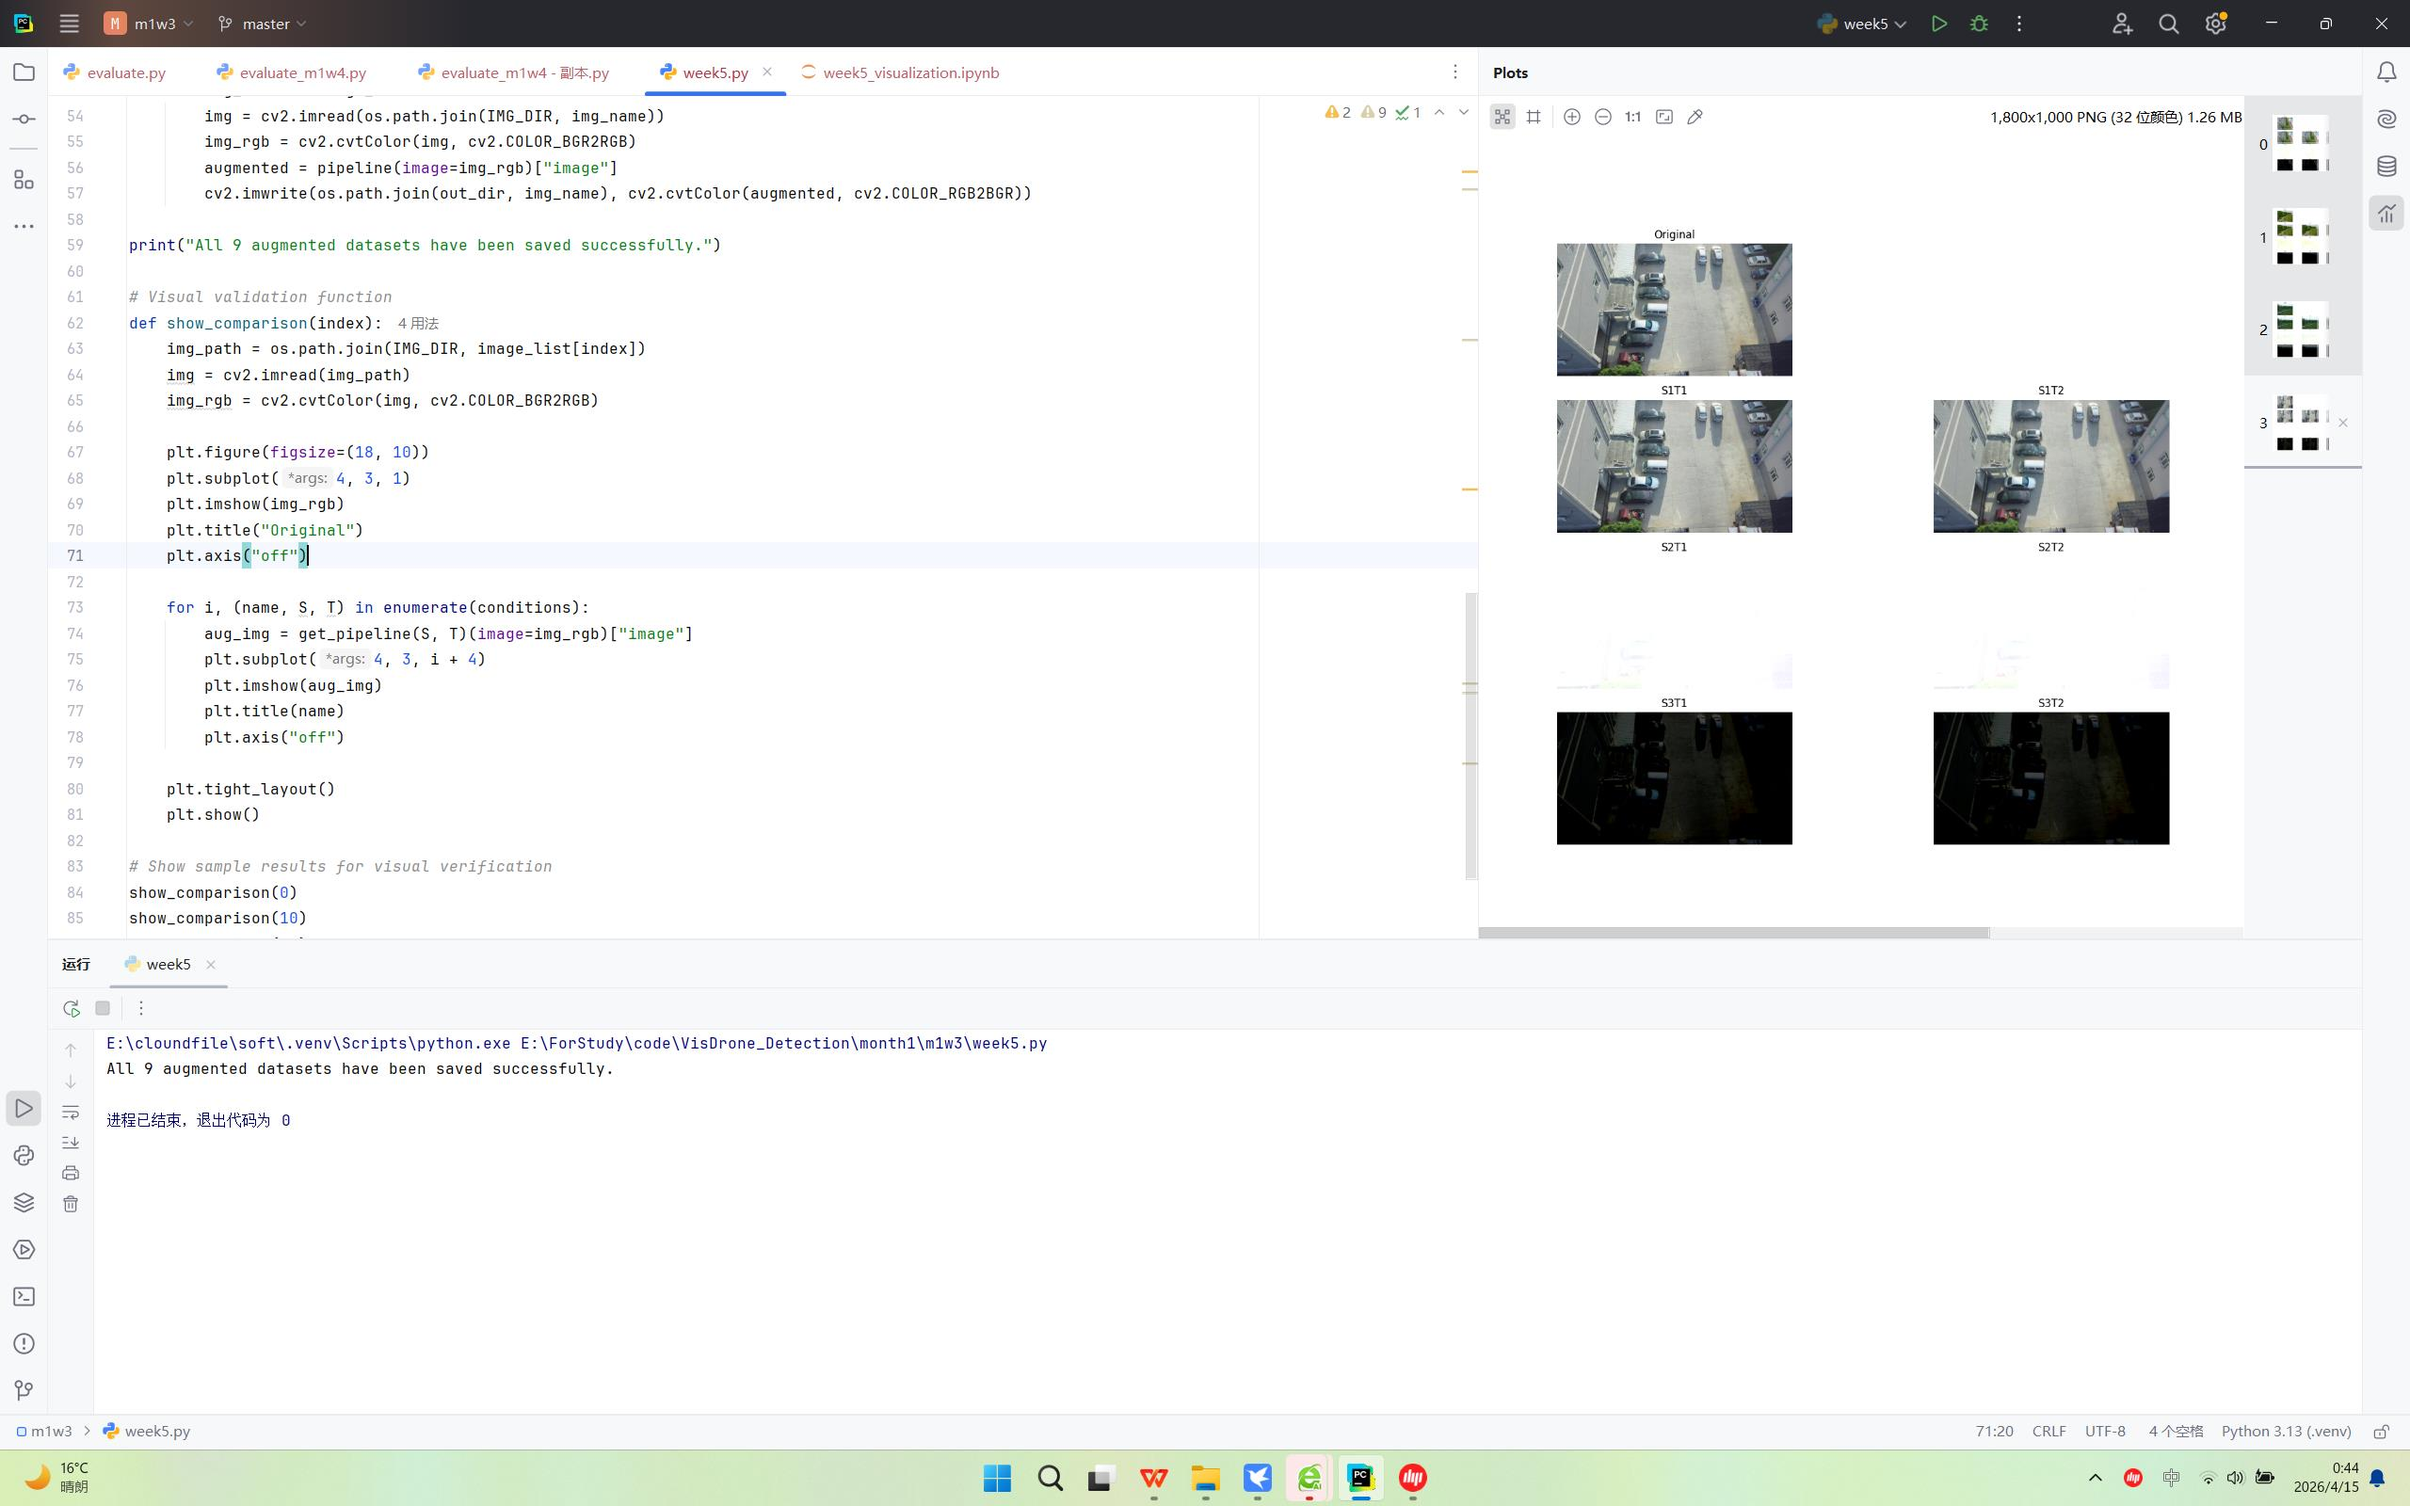
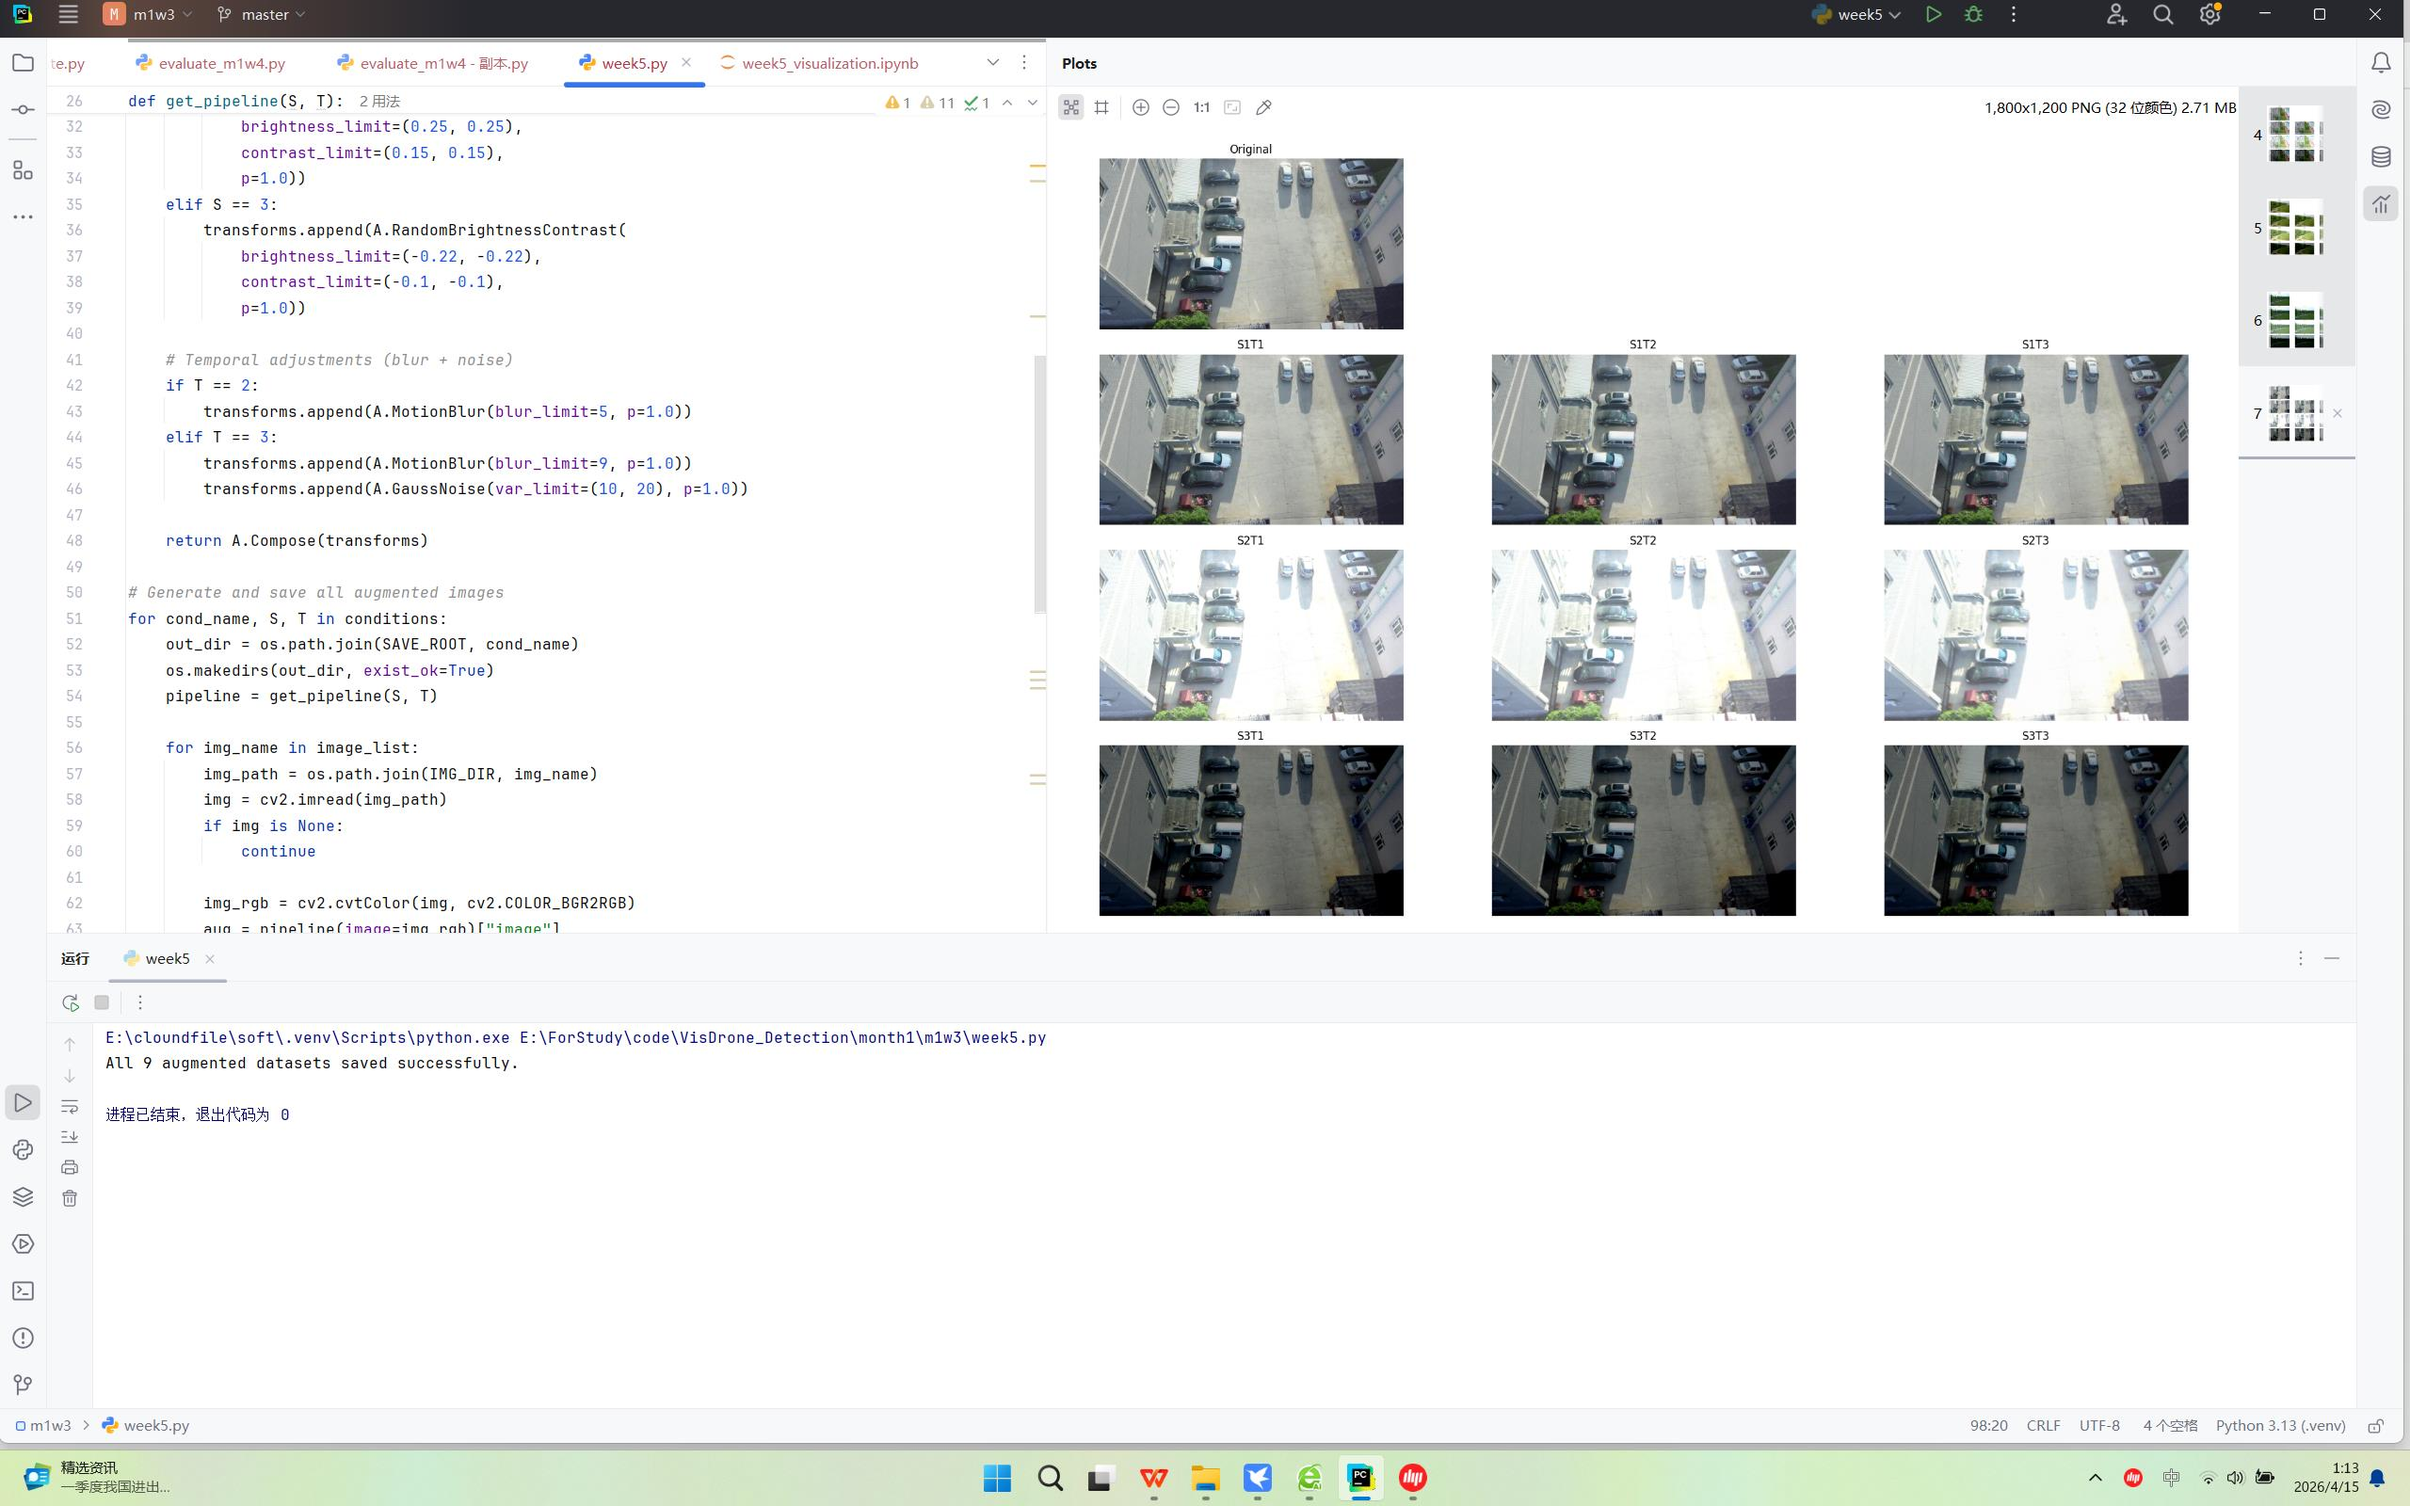
Add files via upload

diff --git a/month2/week5/week5.py b/month2/week5/week5.py
@@ -1,0 +1,98 @@
+# Week 5: 9-Condition Image Perturbation for VisDrone
+# Using Albumentations to generate spatial and temporal variations
+# Save augmented dataset and perform visual validation
+
+import os
+import cv2
+import numpy as np
+import matplotlib.pyplot as plt
+import albumentations as A
+
+# File paths
+IMG_DIR = "./data/VisDrone2019-DET-val/images"
+SAVE_ROOT = "./visdrone_val_aug_9conditions"
+
+os.makedirs(SAVE_ROOT, exist_ok=True)
+image_list = sorted([f for f in os.listdir(IMG_DIR) if f.endswith(".jpg")])
+
+# Define 9 combined conditions (S: spatial, T: temporal)
+conditions = [
+    ("S1T1", 1, 1), ("S1T2", 1, 2), ("S1T3", 1, 3),
+    ("S2T1", 2, 1), ("S2T2", 2, 2), ("S2T3", 2, 3),
+    ("S3T1", 3, 1), ("S3T2", 3, 2), ("S3T3", 3, 3),
+]
+
+# Create transformation for each condition
+def get_pipeline(S, T):
+    transforms = []
+
+    # Spatial adjustments
+    if S == 2:
+        transforms.append(A.RandomBrightnessContrast(
+            brightness_limit=(0.25, 0.25),
+            contrast_limit=(0.15, 0.15),
+            p=1.0))
+    elif S == 3:
+        transforms.append(A.RandomBrightnessContrast(
+            brightness_limit=(-0.22, -0.22),
+            contrast_limit=(-0.1, -0.1),
+            p=1.0))
+
+    # Temporal adjustments (blur + noise)
+    if T == 2:
+        transforms.append(A.MotionBlur(blur_limit=5, p=1.0))
+    elif T == 3:
+        transforms.append(A.MotionBlur(blur_limit=9, p=1.0))
+        transforms.append(A.GaussNoise(var_limit=(10, 20), p=1.0))
+
+    return A.Compose(transforms)
+
+# Generate and save all augmented images
+for cond_name, S, T in conditions:
+    out_dir = os.path.join(SAVE_ROOT, cond_name)
+    os.makedirs(out_dir, exist_ok=True)
+    pipeline = get_pipeline(S, T)
+
+    for img_name in image_list:
+        img_path = os.path.join(IMG_DIR, img_name)
+        img = cv2.imread(img_path)
+        if img is None:
+            continue
+
+        img_rgb = cv2.cvtColor(img, cv2.COLOR_BGR2RGB)
+        aug = pipeline(image=img_rgb)["image"]
+        aug_bgr = cv2.cvtColor(aug, cv2.COLOR_RGB2BGR)
+        cv2.imwrite(os.path.join(out_dir, img_name), aug_bgr)
+
+print("All 9 augmented datasets saved successfully.")
+
+# Visual validation (FIXED subplot layout)
+def show_comparison(index):
+    img_path = os.path.join(IMG_DIR, image_list[index])
+    img = cv2.imread(img_path)
+    img_rgb = cv2.cvtColor(img, cv2.COLOR_BGR2RGB)
+
+    plt.figure(figsize=(18, 12))
+
+    # Show original
+    plt.subplot(4, 3, 1)
+    plt.imshow(img_rgb)
+    plt.title("Original")
+    plt.axis("off")
+
+    # Show 9 conditions
+    for i, (name, S, T) in enumerate(conditions):
+        aug = get_pipeline(S, T)(image=img_rgb)["image"]
+        plt.subplot(4, 3, i + 4)
+        plt.imshow(aug)
+        plt.title(name)
+        plt.axis("off")
+
+    plt.tight_layout()
+    plt.show()
+
+# Show sample results
+show_comparison(0)
+show_comparison(10)
+show_comparison(20)
+show_comparison(30)
